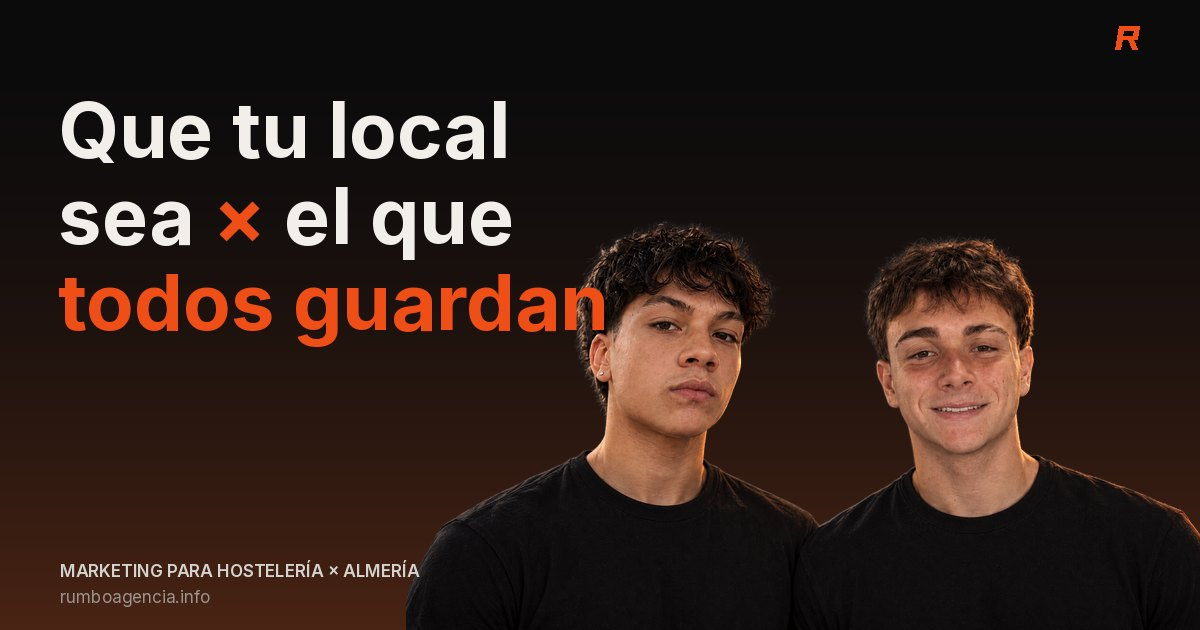
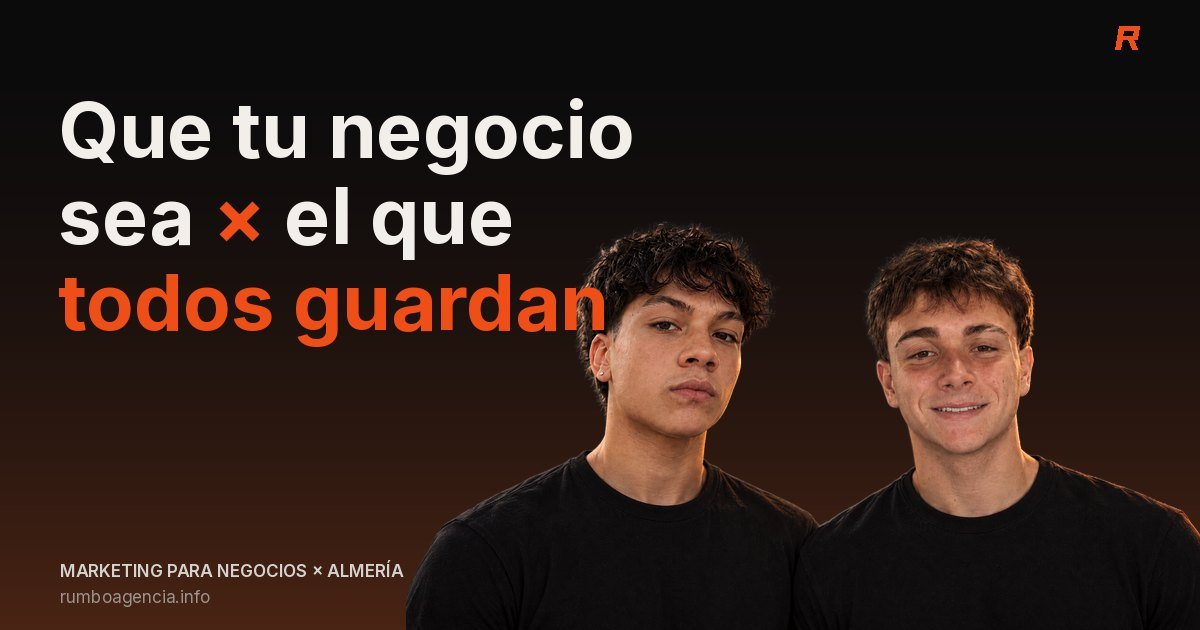
Rumbo trabaja con todo tipo de negocios, no solo hostelería
- Portada, «Qué hacemos», precios, contacto, pie y metadatos hablan de negocios en general
- Formulario: «Nombre del negocio» y ejemplo de mensaje genérico
- Exclusividad por sector y zona en lugar de por tipo de cocina
- Enlaces de Instagram y portafolio adaptados; los mensajes de WhatsApp dicen «mi negocio»
- Se mantienen tal cual los datos reales del caso de A Lo Cubano
- Imagen para compartir actualizada

Claude-Session: https://claude.ai/code/session_019xFNQLcs2HgyMfZCJFFBzc

Changed region(s): [[0.2775, 0.1508, 0.5242, 0.2714], [0.185, 0.8746, 0.3392, 0.9349]]

diff --git a/public/portafolio/index.html b/public/portafolio/index.html
@@ -4,7 +4,7 @@
 <meta charset="utf-8">
 <meta name="viewport" content="width=device-width, initial-scale=1, viewport-fit=cover">
 <title>Rumbo · Portafolio</title>
-<meta name="description" content="Portafolio de Rumbo: marketing para hostelería en Almería: kebabs, restaurantes, bares y cafeterías. Resultados, casos y equipo.">
+<meta name="description" content="Portafolio de Rumbo: marketing para todo tipo de negocios en Almería. Resultados, casos y equipo.">
 <meta name="theme-color" content="#101012">
 <link rel="canonical" href="https://rumboagencia.info/portafolio/">
 <meta property="og:type" content="website">
@@ -12,7 +12,7 @@
 <meta property="og:site_name" content="Rumbo">
 <meta property="og:url" content="https://rumboagencia.info/portafolio/">
 <meta property="og:title" content="Rumbo · Portafolio">
-<meta property="og:description" content="Portafolio de Rumbo: marketing para hostelería en Almería: kebabs, restaurantes, bares y cafeterías. Resultados, casos y equipo.">
+<meta property="og:description" content="Portafolio de Rumbo: marketing para todo tipo de negocios en Almería. Resultados, casos y equipo.">
 <meta property="og:image" content="https://rumboagencia.info/portafolio/assets/esteban.jpg">
 <meta property="og:image:width" content="900">
 <meta property="og:image:height" content="900">
@@ -72,12 +72,12 @@
     <div aria-hidden="true" style="position:absolute;pointer-events:none;width:140vw;height:140vw;max-width:900px;max-height:900px;right:-40%;top:-20%;border-radius:50%;background:radial-gradient(circle,rgba(240,78,23,.4) 0%,rgba(240,78,23,.1) 42%,transparent 70%);filter:blur(24px);animation:pf-drift 22s ease-in-out infinite"></div>
     <div style="position:relative;z-index:2;max-width:720px;margin:0 auto;padding:26px 20px 40px">
       <div data-rise style="display:flex;flex-wrap:wrap;gap:8px">
-        <span style="border:1px solid rgba(240,78,23,.55);background:rgba(240,78,23,.1);border-radius:999px;padding:6px 13px;font-size:12px;font-weight:600;letter-spacing:.08em;text-transform:uppercase;color:#FF8A3D">Hostelería</span>
-        <span style="border:1px solid rgba(240,78,23,.55);background:rgba(240,78,23,.1);border-radius:999px;padding:6px 13px;font-size:12px;font-weight:600;letter-spacing:.08em;text-transform:uppercase;color:#FF8A3D">Restauración</span>
+        <span style="border:1px solid rgba(240,78,23,.55);background:rgba(240,78,23,.1);border-radius:999px;padding:6px 13px;font-size:12px;font-weight:600;letter-spacing:.08em;text-transform:uppercase;color:#FF8A3D">Todo tipo de negocios</span>
+        <span style="border:1px solid rgba(240,78,23,.55);background:rgba(240,78,23,.1);border-radius:999px;padding:6px 13px;font-size:12px;font-weight:600;letter-spacing:.08em;text-transform:uppercase;color:#FF8A3D">Vídeo · Redes · Google</span>
         <span style="border:1px solid rgba(242,239,234,.16);border-radius:999px;padding:6px 13px;font-size:12px;font-weight:600;letter-spacing:.08em;text-transform:uppercase;color:#C8BBAE">Almería</span>
       </div>
 
-      <h1 data-rise style="animation-delay:.08s;margin-top:22px;font-size:clamp(40px,11.5vw,84px);letter-spacing:-.055em;line-height:.92;text-wrap:balance">Que tu local sea <span style="color:#F04E17">el que todos guardan.</span></h1>
+      <h1 data-rise style="animation-delay:.08s;margin-top:22px;font-size:clamp(40px,11.5vw,84px);letter-spacing:-.055em;line-height:.92;text-wrap:balance">Que tu negocio sea <span style="color:#F04E17">el que todos guardan.</span></h1>
 
       <div data-rise style="animation-delay:.18s;margin-top:28px;display:grid;grid-template-columns:repeat(2,minmax(0,1fr));gap:10px">
         <figure style="position:relative;aspect-ratio:3/4;border-radius:16px;overflow:hidden;background:#17171A;isolation:isolate">
@@ -102,8 +102,8 @@
         </figure>
       </div>
 
-      <p data-rise style="animation-delay:.28s;margin-top:26px;font-size:clamp(18px,5vw,22px);line-height:1.4;letter-spacing:-.01em;text-wrap:pretty">Somos Esteban y Eneko, <b style="font-weight:600">Rumbo</b>. Hacemos que tu kebab, tu restaurante o tu bar sea el sitio del que todo el mundo habla y al que todo el mundo quiere ir.</p>
-      <p data-rise style="animation-delay:.34s;margin-top:12px;color:#C8BBAE;text-wrap:pretty">Dos personas, sin intermediarios: quien graba tu local es quien lo publica.</p>
+      <p data-rise style="animation-delay:.28s;margin-top:26px;font-size:clamp(18px,5vw,22px);line-height:1.4;letter-spacing:-.01em;text-wrap:pretty">Somos Esteban y Eneko, <b style="font-weight:600">Rumbo</b>. Hacemos que tu negocio, ya sea un restaurante, una tienda, una clínica o un gimnasio, se convierta en el sitio del que todo el mundo habla y al que todo el mundo quiere ir.</p>
+      <p data-rise style="animation-delay:.34s;margin-top:12px;color:#C8BBAE;text-wrap:pretty">Dos personas, sin intermediarios: quien graba tu negocio es quien lo publica.</p>
 
       <div data-rise style="animation-delay:.4s;margin-top:28px;display:grid;grid-template-columns:repeat(3,minmax(0,1fr));gap:1px;background:rgba(242,239,234,.14);border-radius:14px;overflow:hidden">
         <div style="background:rgba(23,23,26,.9);padding:14px 12px">
@@ -134,7 +134,7 @@
         <div style="position:absolute;inset:0;opacity:.3;background-image:radial-gradient(rgba(242,239,234,.5) 1px,transparent 1.2px);background-size:22px 22px;-webkit-mask-image:linear-gradient(to bottom,#000,transparent 45%);mask-image:linear-gradient(to bottom,#000,transparent 45%)"></div>
       </div>
 
-      <span style="display:inline-flex;align-items:center;gap:9px;border:1px solid rgba(240,78,23,.5);background:rgba(240,78,23,.12);border-radius:999px;padding:6px 13px;font-size:11px;font-weight:600;letter-spacing:.14em;text-transform:uppercase;color:#FF8A3D"><span data-anim style="width:7px;height:7px;border-radius:50%;background:#F04E17;animation:pf-pulse 1.6s ease-out infinite"></span>Para hostelería</span>
+      <span style="display:inline-flex;align-items:center;gap:9px;border:1px solid rgba(240,78,23,.5);background:rgba(240,78,23,.12);border-radius:999px;padding:6px 13px;font-size:11px;font-weight:600;letter-spacing:.14em;text-transform:uppercase;color:#FF8A3D"><span data-anim style="width:7px;height:7px;border-radius:50%;background:#F04E17;animation:pf-pulse 1.6s ease-out infinite"></span>Un ejemplo: hostelería</span>
       <div style="margin-top:14px;display:flex;flex-wrap:wrap;gap:6px">
         <span style="border:1px solid rgba(242,239,234,.16);background:rgba(16,16,18,.6);border-radius:999px;padding:6px 12px;font-size:12px;font-weight:600;color:#F2EFEA">Kebabs</span><span style="border:1px solid rgba(242,239,234,.16);background:rgba(16,16,18,.6);border-radius:999px;padding:6px 12px;font-size:12px;font-weight:600;color:#F2EFEA">Restaurantes</span><span style="border:1px solid rgba(242,239,234,.16);background:rgba(16,16,18,.6);border-radius:999px;padding:6px 12px;font-size:12px;font-weight:600;color:#F2EFEA">Bares</span><span style="border:1px solid rgba(242,239,234,.16);background:rgba(16,16,18,.6);border-radius:999px;padding:6px 12px;font-size:12px;font-weight:600;color:#F2EFEA">Cafeterías</span><span style="border:1px solid rgba(242,239,234,.16);background:rgba(16,16,18,.6);border-radius:999px;padding:6px 12px;font-size:12px;font-weight:600;color:#F2EFEA">Hamburgueserías</span>
       </div>
@@ -282,7 +282,7 @@
       <div data-rev style="margin-top:28px;display:grid;gap:1px;background:rgba(242,239,234,.12);border-radius:16px;overflow:hidden">
         <div style="background:#17171A;padding:20px;display:grid;grid-template-columns:40px minmax(0,1fr);gap:14px">
           <div style="font-size:14px;font-weight:500;color:#F04E17;border-top:2px solid #F04E17;padding-top:6px">01</div>
-          <div><h4 style="font-size:18px;font-weight:600">Estrategia</h4><p style="margin-top:5px;font-size:15px;color:#C8BBAE;line-height:1.45;text-wrap:pretty">Auditoría del local y la competencia, líneas creativas y calendario antes de grabar nada.</p></div>
+          <div><h4 style="font-size:18px;font-weight:600">Estrategia</h4><p style="margin-top:5px;font-size:15px;color:#C8BBAE;line-height:1.45;text-wrap:pretty">Auditoría de tu negocio y la competencia, líneas creativas y calendario antes de grabar nada.</p></div>
         </div>
         <div style="background:#17171A;padding:20px;display:grid;grid-template-columns:40px minmax(0,1fr);gap:14px">
           <div style="font-size:14px;font-weight:500;color:#F04E17;border-top:2px solid #F04E17;padding-top:6px">02</div>
@@ -290,7 +290,7 @@
             <h4 style="font-size:18px;font-weight:600">Gestión de redes</h4>
             <p style="margin-top:5px;font-size:15px;color:#C8BBAE;line-height:1.45;text-wrap:pretty">Nos quedamos con tus cuentas y tú te olvidas de ellas. Instagram y TikTok, de principio a fin:</p>
             <ul style="list-style:none;padding:0;margin-top:14px;display:grid;gap:12px">
-              <li style="display:grid;grid-template-columns:16px minmax(0,1fr);gap:10px;font-size:15px;line-height:1.45"><span style="color:#F04E17">→</span><span><b style="font-weight:600">Un día de grabación al mes</b> <span style="color:#C8BBAE">en tu local, en horario tranquilo. Salimos con el mes entero rodado.</span></span></li>
+              <li style="display:grid;grid-template-columns:16px minmax(0,1fr);gap:10px;font-size:15px;line-height:1.45"><span style="color:#F04E17">→</span><span><b style="font-weight:600">Un día de grabación al mes</b> <span style="color:#C8BBAE">en tu negocio, en el momento más tranquilo. Salimos con el mes entero rodado.</span></span></li>
               <li style="display:grid;grid-template-columns:16px minmax(0,1fr);gap:10px;font-size:15px;line-height:1.45"><span style="color:#F04E17">→</span><span><b style="font-weight:600">Reels, posts y stories</b> <span style="color:#C8BBAE">editados con gancho en los tres primeros segundos, subtítulos y ritmo pensado para móvil.</span></span></li>
               <li style="display:grid;grid-template-columns:16px minmax(0,1fr);gap:10px;font-size:15px;line-height:1.45"><span style="color:#F04E17">→</span><span><b style="font-weight:600">Calendario y copys</b> <span style="color:#C8BBAE">escritos por nosotros. Apruebas el mes de una vez, no pieza por pieza.</span></span></li>
               <li style="display:grid;grid-template-columns:16px minmax(0,1fr);gap:10px;font-size:15px;line-height:1.45"><span style="color:#F04E17">→</span><span><b style="font-weight:600">Publicación constante</b> <span style="color:#C8BBAE">en las mejores horas, sin huecos: la cuenta nunca se queda en blanco.</span></span></li>
@@ -312,8 +312,8 @@
         <img src="/portafolio/assets/esteban.jpg" alt="" aria-hidden="true" style="width:56px;height:56px;border-radius:50%;object-fit:cover;object-position:50% 10%;border:2px solid #17171A">
         <img src="/portafolio/assets/eneko.jpg" alt="" aria-hidden="true" style="width:56px;height:56px;border-radius:50%;object-fit:cover;object-position:50% 14%;border:2px solid #17171A;margin-left:-14px">
       </div>
-      <h2 style="margin-top:20px;font-size:clamp(30px,8.4vw,48px);letter-spacing:-.045em;line-height:.98;text-wrap:balance">¿Tu local es <span style="color:#F04E17">el siguiente?</span></h2>
-      <p style="margin-top:14px;color:#C8BBAE;text-wrap:pretty">Treinta minutos y te contamos qué haríamos con él. Trabajamos con un local por zona.</p>
+      <h2 style="margin-top:20px;font-size:clamp(30px,8.4vw,48px);letter-spacing:-.045em;line-height:.98;text-wrap:balance">¿Tu negocio es <span style="color:#F04E17">el siguiente?</span></h2>
+      <p style="margin-top:14px;color:#C8BBAE;text-wrap:pretty">Treinta minutos y te contamos qué haríamos con él. Trabajamos con un negocio por sector y zona.</p>
       <div style="margin-top:24px;display:grid;gap:10px">
         <a href="mailto:lakylabmarketing@gmail.com" style="display:flex;align-items:center;justify-content:space-between;gap:12px;min-height:56px;padding:0 22px;border-radius:999px;border:1px solid #F04E17;background:linear-gradient(180deg,rgba(240,78,23,.24),rgba(240,78,23,.08));font-weight:600;color:#F2EFEA" class="h3"><span>Escríbenos</span><span style="font-size:13px;font-weight:500;color:#C8BBAE">lakylabmarketing@gmail.com</span></a>
         <a href="https://rumboagencia.info/#consulta" target="_blank" rel="noopener" style="display:flex;align-items:center;justify-content:space-between;min-height:56px;padding:0 22px;border-radius:999px;border:1px solid rgba(242,239,234,.18);font-weight:600;color:#F2EFEA" class="h2"><span>Reservar consulta</span><span style="color:#FF8A3D">↗</span></a>

diff --git a/lib/content.ts b/lib/content.ts
@@ -4,8 +4,8 @@
 export const CONTACT_EMAIL = 'lakylabmarketing@gmail.com'; // provisional
 
 export const services = [
-  { k: '01', title: 'Estrategia', text: 'Auditoría del local y de la competencia, líneas creativas y calendario del primer trimestre, antes de grabar nada.' },
-  { k: '02', title: 'Contenido', text: 'Grabación en tu local, piezas de vídeo de tres duraciones, diseño gráfico y stories. Publicamos nosotros, con los copys escritos.' },
+  { k: '01', title: 'Estrategia', text: 'Auditoría de tu negocio y de la competencia, líneas creativas y calendario del primer trimestre, antes de grabar nada.' },
+  { k: '02', title: 'Contenido', text: 'Grabación en tu negocio, piezas de vídeo de tres duraciones, diseño gráfico y stories. Publicamos nosotros, con los copys escritos.' },
   { k: '03', title: 'Clientes', note: 'Crecimiento y Marca', text: 'Ficha de Google optimizada, sistema de captación de reseñas, respuesta a mensajes y automatizaciones de WhatsApp o DM.' },
 ];
 
@@ -55,7 +55,7 @@ export const topVideos = [
 ];
 
 export const process = [
-  { k: 'Grabación', title: 'En tu local, en horario de bajo servicio', text: 'Según el plan: media jornada al mes (Esencial), una jornada completa (Crecimiento) o dos medias jornadas (Marca).' },
+  { k: 'Grabación', title: 'En tu negocio, en el momento más tranquilo', text: 'Según el plan: media jornada al mes (Esencial), una jornada completa (Crecimiento) o dos medias jornadas (Marca).' },
   { k: 'Lunes', title: 'Qué se entrega', text: 'Los dos socios repasan la semana: qué sale, qué está trabado y qué necesitamos de ti.' },
   { k: 'Martes a jueves', title: 'Edición', text: 'Esteban monta las piezas; Eneko lleva la comunicación contigo.' },
   { k: 'Viernes', title: 'Programar y medir', text: 'Se programa la semana siguiente y se revisan las métricas. Apruebas el mes de una vez, no pieza por pieza.' },
@@ -65,12 +65,12 @@ export const commitments = [
   { title: 'Entrega', text: 'Si al cierre del mes falta algo de lo que pone el contrato, se devuelve el mes completo, sin que tengas que pedirlo.' },
   { title: 'Propiedad', text: 'Tus cuentas, tu web y todo el material grabado son tuyos. Si te vas, te llevas los archivos originales.' },
   { title: 'Respuesta', note: 'Crecimiento y Marca', text: 'Mensajes y comentarios contestados en menos de 24 horas laborables.' },
-  { title: 'Exclusividad', note: 'Crecimiento y Marca', text: 'Un solo negocio de tu tipo de cocina por zona.' },
+  { title: 'Exclusividad', note: 'Crecimiento y Marca', text: 'Un solo negocio de tu mismo sector por zona.' },
 ];
 
 export const team = [
   { name: 'Esteban', role: 'Grabación y producción', img: '/portafolio/assets/esteban.jpg', w: 900, h: 900,
-    text: 'Graba en tu local, edita las piezas, diseña y lleva el calendario de publicación.',
+    text: 'Graba en tu negocio, edita las piezas, diseña y lleva el calendario de publicación.',
     tasks: 'Grabación · Edición · Publicación · Calendario · Diseño gráfico · Branding' },
   { name: 'Eneko', role: 'Clientes, sistemas y web', img: '/portafolio/assets/eneko.jpg', w: 675, h: 900,
     text: 'Es tu interlocutor: lleva las reuniones y los informes. En los planes que lo incluyen, también los mensajes, la web y las automatizaciones.',
@@ -80,7 +80,7 @@ export const team = [
 export const plans = [
   { id: 'esencial', name: 'Esencial', price: '550', claim: 'Para empezar a estar presente cada semana.', inc: 'Incluye', value: 'Esencial · 550 €/mes',
     items: ['10 piezas de vídeo (2 largas, 4 medias, 4 cortas)', '3 diseños gráficos + 12 stories', '1 media jornada de grabación', 'Calendario, publicación y copys', 'Informe mensual de métricas'] },
-  { id: 'crecimiento', name: 'Crecimiento', price: '950', rec: true, claim: 'Para llenar entre semana, no solo el sábado.', inc: 'Todo lo de Esencial, y además', value: 'Crecimiento · 950 €/mes',
+  { id: 'crecimiento', name: 'Crecimiento', price: '950', rec: true, claim: 'Para tener clientes todas las semanas, no solo en temporada alta.', inc: 'Todo lo de Esencial, y además', value: 'Crecimiento · 950 €/mes',
     items: ['16 piezas de vídeo (4 largas, 6 medias, 6 cortas)', '6 diseños gráficos + 20 stories', '1 jornada completa de grabación', 'Gestión de mensajes y comentarios', 'Ficha de Google optimizada', 'Sistema de captación de reseñas', '1 automatización (WhatsApp o DM)', 'Gestión de publicidad', 'Informe de negocio + llamada mensual', 'Exclusividad en tu zona'] },
   { id: 'marca', name: 'Marca', price: '1.600', claim: 'Para construir una marca, no solo publicar.', inc: 'Todo lo de Crecimiento, y además', value: 'Marca · 1.600 €/mes',
     items: ['24 piezas de vídeo (4 largas, 8 medias, 12 cortas)', '10 diseños gráficos + stories sin límite', '2 medias jornadas de grabación', '3 automatizaciones', 'Web o landing incluida', 'Campañas con creatividades propias', 'Reunión estratégica presencial'] },
@@ -95,11 +95,11 @@ export const conditions = [
 ];
 
 export const faqs = [
-  { q: '¿Tengo que salir yo en los vídeos?', a: 'No. Funciona mejor si sales tú o alguien de tu equipo, pero se puede grabar todo centrado en cocina, producto y sala. Lo decides antes de la primera grabación.' },
-  { q: '¿Cuándo empiezo a notar algo?', a: 'El primer mes se nota en la presencia: publicas de forma constante. El movimiento en reservas y consultas suele aparecer entre el segundo y el tercer mes; por eso la permanencia mínima es de tres meses.' },
+  { q: '¿Tengo que salir yo en los vídeos?', a: 'No. Funciona mejor si sales tú o alguien de tu equipo, pero se puede grabar todo centrado en tu producto, tu servicio y tu espacio. Lo decides antes de la primera grabación.' },
+  { q: '¿Cuándo empiezo a notar algo?', a: 'El primer mes se nota en la presencia: publicas de forma constante. El movimiento en clientes, reservas y consultas suele aparecer entre el segundo y el tercer mes; por eso la permanencia mínima es de tres meses.' },
   { q: '¿Qué pasa si no me gusta una pieza?', a: 'Cada pieza lleva una ronda de revisión incluida. Si al cierre del mes falta algo de lo que pone el contrato, se devuelve el mes completo.' },
-  { q: '¿Y si no puedo grabar el día que venís?', a: 'Las grabaciones se acuerdan con antelación y se reprograman avisando con 48 horas. Grabamos en horario de bajo servicio.' },
+  { q: '¿Y si no puedo grabar el día que venís?', a: 'Las grabaciones se acuerdan con antelación y se reprograman avisando con 48 horas. Grabamos en el momento más tranquilo de tu negocio.' },
   { q: '¿La publicidad está incluida en el precio?', a: 'La gestión sí, en Crecimiento y Marca. La inversión en Meta o Google va aparte y la decides tú.' },
-  { q: '¿Trabajáis con mi competencia?', a: 'En Crecimiento y Marca hay exclusividad: un solo negocio de tu tipo de cocina en tu zona. Si tu zona ya está ocupada, te lo decimos en la primera llamada.' },
+  { q: '¿Trabajáis con mi competencia?', a: 'En Crecimiento y Marca hay exclusividad: un solo negocio de tu mismo sector en tu zona. Si tu zona ya está ocupada, te lo decimos en la primera llamada.' },
   { q: 'Si me voy, ¿qué me llevo?', a: 'Las cuentas, la web y el material original grabado son tuyos desde el primer día. Te entregamos los archivos y los accesos.' },
 ];

diff --git a/app/page.tsx b/app/page.tsx
@@ -45,9 +45,9 @@ export default function Page() {
         <Hero />
         {/* QUÉ HACEMOS (sección clara) */}
         <section id="servicios" data-fx className="relative bg-niebla text-ink" aria-label="Qué hacemos">
-          <div className="pt-20 md:pt-28"><SlantBand items={['Vídeo', 'Redes', 'Ficha de Google', 'Reseñas', 'Hostelería', 'Almería']} /></div>
+          <div className="pt-20 md:pt-28"><SlantBand items={['Vídeo', 'Redes', 'Ficha de Google', 'Reseñas', 'Tu negocio', 'Almería']} /></div>
           <div className="mx-auto max-w-wrap px-5 pb-28 pt-20 sm:px-8 md:pb-40 md:pt-28">
-            <SectionHead light index="01 · Qué hacemos" title="Qué" kw="hacemos" lead="Rumbo es una agencia de Almería que trabaja solo con hostelería: restaurantes, hoteles, cafeterías y locales de ocio de la provincia." />
+            <SectionHead light index="01 · Qué hacemos" title="Qué" kw="hacemos" lead="Rumbo es una agencia de marketing de Almería para todo tipo de negocios: restaurantes, tiendas, clínicas, gimnasios, inmobiliarias, despachos… Si tienes clientes que ganar, trabajamos contigo." />
             <ul className="border-t border-black/15">
               {services.map((s) => (
                 <li key={s.k} data-rise className="grid gap-3 border-b border-black/15 py-8 md:grid-cols-[120px_minmax(0,.9fr)_minmax(0,1.2fr)] md:items-baseline md:py-10">
@@ -158,7 +158,7 @@ export default function Page() {
         {/* PRECIOS */}
         <section id="precios" data-fx className="border-t border-line" aria-label="Precios">
           <div className="mx-auto max-w-wrap px-5 py-28 sm:px-8 md:py-40">
-            <SectionHead index="04 · Precios" title="Elige el plan que" kw="te llena el local" lead="Tres planes con el mismo equipo. Cambian el volumen de contenido y el trabajo de captación." />
+            <SectionHead index="04 · Precios" title="Elige el plan que" kw="hace crecer tu negocio" lead="Tres planes con el mismo equipo. Cambian el volumen de contenido y el trabajo de captación." />
             <div className="grid gap-6 lg:grid-cols-3">
               {plans.map((p) => (
                 <article key={p.id} data-rise className={`relative flex flex-col p-7 md:p-9 ${p.rec ? 'bg-[#1a1210] outline outline-1 outline-naranja/70' : 'bg-surface'}`}>
@@ -217,7 +217,7 @@ export default function Page() {
           <div className="mx-auto grid max-w-wrap gap-14 px-5 py-28 sm:px-8 md:grid-cols-2 md:py-40">
             <div>
               <span className="tech text-muted"><span className="text-naranja">+</span> 06 · Contacto</span>
-              <h2 className="mega mt-5 text-[clamp(2.3rem,5.4vw,5.6rem)] leading-[.98]"><span className="ln"><span>Cuéntanos qué mesa</span></span><span className="ln deep"><span>hay que llenar</span></span></h2>
+              <h2 className="mega mt-5 text-[clamp(2.3rem,5.4vw,5.6rem)] leading-[.98]"><span className="ln"><span>Cuéntanos qué necesita</span></span><span className="ln deep"><span>tu negocio</span></span></h2>
               <p className="mt-6 max-w-[44ch] text-body text-gris">Treinta minutos, sin compromiso. Miramos tu perfil y tu ficha de Google antes de la llamada y te decimos qué haríamos primero.</p>
               <ul className="tech mt-8 grid gap-3 text-[11px] text-gris">
                 <li><span className="text-naranja">+</span> Respondemos en menos de 24 horas laborables</li>
@@ -237,7 +237,7 @@ export default function Page() {
         <div className="mx-auto mt-20 grid max-w-wrap gap-10 border-t border-line pt-10 text-[15px] text-gris md:grid-cols-3">
           <div>
             <Logo className="h-6 w-auto" />
-            <p className="mt-4 max-w-[30ch]">Agencia de marketing para hostelería. Almería y provincia.</p>
+            <p className="mt-4 max-w-[30ch]">Agencia de marketing para todo tipo de negocios. Almería y provincia.</p>
           </div>
           <nav aria-label="Secciones del pie" className="tech grid gap-2 text-[11px]">
             {[['#servicios', 'Qué hacemos'], ['#proyectos', 'Proyectos'], ['#proceso', 'Proceso'], ['#nosotros', 'Sobre nosotros'], ['#precios', 'Precios'], ['#faq', 'Preguntas'], ['#contacto', 'Contacto']].map(([h, l]) => (
@@ -247,13 +247,13 @@ export default function Page() {
           <div id="aviso-legal" className="text-[14px] leading-relaxed text-muted">
             <span id="privacidad" className="sr-only" />
             <h2 className="tech mb-3 text-gris">Aviso legal y privacidad</h2>
-            <p><b className="text-gris">Quién está detrás.</b> Esta web es de Rumbo, agencia de marketing para hostelería en Almería formada por Esteban y Eneko. Contacto: <a className="underline" href={`mailto:${CONTACT_EMAIL}`}>{CONTACT_EMAIL}</a>.</p>
+            <p><b className="text-gris">Quién está detrás.</b> Esta web es de Rumbo, agencia de marketing en Almería formada por Esteban y Eneko. Contacto: <a className="underline" href={`mailto:${CONTACT_EMAIL}`}>{CONTACT_EMAIL}</a>.</p>
             <p className="mt-2"><b className="text-gris">Datos.</b> Solo los que escribes en el formulario de consulta, para responderte; no los cedemos a nadie. El formulario se procesa en Netlify, el servicio que aloja esta web. Base legal: tu consentimiento. Puedes pedir acceder, corregir o borrar tus datos en el correo de arriba y reclamar ante la AEPD (aepd.es).</p>
             <p className="mt-2"><b className="text-gris">Cookies.</b> Esta web no usa cookies ni herramientas de seguimiento.</p>
           </div>
         </div>
         <div className="tech mx-auto mt-10 flex max-w-wrap flex-wrap justify-between gap-3 text-[10px] text-muted">
-          <span>© 2026 Rumbo · rumboagencia.info</span><span>Almería · Hostelería</span>
+          <span>© 2026 Rumbo · rumboagencia.info</span><span>Almería · Marketing para negocios</span>
         </div>
       </footer>
     </>

diff --git a/public/enlaces/index.html b/public/enlaces/index.html
@@ -14,10 +14,10 @@ var CONFIG = {
   WHATSAPP_NUMERO: '34624911599',
 
   // Mensaje ya escrito del botón principal.
-  WHATSAPP_MENSAJE: 'Hola, vengo de vuestro Instagram y quiero saber qué haríais con mi local.',
+  WHATSAPP_MENSAJE: 'Hola, vengo de vuestro Instagram y quiero saber qué haríais con mi negocio.',
 
   // Mensaje ya escrito del botón «Auditoría gratis de tu perfil».
-  WHATSAPP_MENSAJE_AUDITORIA: 'Hola, quiero la auditoría gratis de mi perfil. Mi local es: ',
+  WHATSAPP_MENSAJE_AUDITORIA: 'Hola, quiero la auditoría gratis de mi perfil. Mi negocio es: ',
 
   // Tu web (sin barra final).
   WEB: 'https://rumboagencia.info',
@@ -30,7 +30,7 @@ var CONFIG = {
 </script>
 <meta name="viewport" content="width=device-width, initial-scale=1, viewport-fit=cover">
 <title>Rumbo · Enlaces</title>
-<meta name="description" content="Marketing para hostelería · Almería y provincia. Escríbenos por WhatsApp.">
+<meta name="description" content="Marketing para todo tipo de negocios · Almería y provincia. Escríbenos por WhatsApp.">
 <meta name="theme-color" content="#101012">
 <meta name="robots" content="noindex">
 <link rel="canonical" href="https://rumboagencia.info/enlaces/">
@@ -38,8 +38,8 @@ var CONFIG = {
 <meta property="og:locale" content="es_ES">
 <meta property="og:site_name" content="Rumbo">
 <meta property="og:url" content="https://rumboagencia.info/enlaces/">
-<meta property="og:title" content="Rumbo · Marketing para hostelería">
-<meta property="og:description" content="Marketing para hostelería · Almería y provincia">
+<meta property="og:title" content="Rumbo · Marketing para negocios">
+<meta property="og:description" content="Marketing para todo tipo de negocios · Almería y provincia">
 <meta property="og:image" content="https://rumboagencia.info/img/og-rumbo.jpg">
 <meta property="og:image:width" content="1200">
 <meta property="og:image:height" content="630">
@@ -117,20 +117,20 @@ footer a:hover{color:var(--cal)}
   <header>
     <div class="iso"><svg viewBox="0 0 57.87 56" aria-hidden="true" focusable="false"><path fill="#101012" fill-rule="evenodd" d="M9.87 0 L57.87 0 L52.23 32 L42.83 32 L51.6 56 L39.6 56 L30.83 32 L16.73 32 L12.5 56 L0.0 56ZM20.26 12 L42.26 12 L40.5 22 L18.5 22Z"/></svg></div>
     <h1>Rumbo</h1>
-    <p class="tag">Marketing para hostelería · Almería y provincia</p>
+    <p class="tag">Marketing para todo tipo de negocios · Almería y provincia</p>
   </header>
 
   <main>
     <ul>
       <li>
-        <a class="b wa" data-link="whatsapp" href="https://wa.me/34624911599?text=Hola%2C%20vengo%20de%20vuestro%20Instagram%20y%20quiero%20saber%20qu%C3%A9%20har%C3%ADais%20con%20mi%20local.">
+        <a class="b wa" data-link="whatsapp" href="https://wa.me/34624911599?text=Hola%2C%20vengo%20de%20vuestro%20Instagram%20y%20quiero%20saber%20qu%C3%A9%20har%C3%ADais%20con%20mi%20negocio.">
           <svg class="ic" viewBox="0 0 24 24" aria-hidden="true" fill="currentColor"><path d="M12 2.2a9.7 9.7 0 0 0-8.4 14.6L2.2 21.8l5.1-1.3A9.7 9.7 0 1 0 12 2.2Zm0 17.7a8 8 0 0 1-4.1-1.1l-.3-.2-3 .8.8-2.9-.2-.3A8 8 0 1 1 12 19.9Zm4.4-6c-.2-.1-1.4-.7-1.7-.8-.2-.1-.4-.1-.5.1l-.8 1c-.1.2-.3.2-.5.1a6.5 6.5 0 0 1-3.2-2.8c-.2-.4.2-.4.7-1.3.1-.2 0-.3 0-.4l-.8-1.8c-.2-.5-.4-.4-.5-.4h-.5a.9.9 0 0 0-.6.3 2.7 2.7 0 0 0-.8 2c0 1.2.9 2.3 1 2.5.1.2 1.7 2.6 4.1 3.6 1.5.7 2.1.7 2.9.6.5-.1 1.4-.6 1.6-1.1.2-.6.2-1 .1-1.1l-.3-.4Z"/></svg>
           <span class="t"><strong>Escríbenos por WhatsApp</strong></span>
           <svg class="go" viewBox="0 0 24 24" fill="none" stroke="currentColor" stroke-width="2.2" aria-hidden="true"><path d="M5 12h13M13 6l6 6-6 6"/></svg>
         </a>
       </li>
       <li>
-        <a class="b" data-link="auditoria" href="https://wa.me/34624911599?text=Hola%2C%20quiero%20la%20auditor%C3%ADa%20gratis%20de%20mi%20perfil.%20Mi%20local%20es%3A%20">
+        <a class="b" data-link="auditoria" href="https://wa.me/34624911599?text=Hola%2C%20quiero%20la%20auditor%C3%ADa%20gratis%20de%20mi%20perfil.%20Mi%20negocio%20es%3A%20">
           <span class="t"><strong>Auditoría gratis de tu perfil</strong><small>Te mandamos un vídeo de 2 minutos con tres cosas que te están costando dinero</small></span>
           <svg class="go" viewBox="0 0 24 24" fill="none" stroke="currentColor" stroke-width="2.2" aria-hidden="true"><path d="M5 12h13M13 6l6 6-6 6"/></svg>
         </a>
@@ -149,7 +149,7 @@ footer a:hover{color:var(--cal)}
       </li>
       <li>
         <a class="b" data-link="portafolio" href="https://rumboagencia.info/portafolio/?utm_source=bio&amp;utm_medium=social&amp;utm_content=portafolio">
-          <span class="t"><strong>Ver portafolio</strong><small>Vídeos, cifras y testimonios de nuestro trabajo en hostelería</small></span>
+          <span class="t"><strong>Ver portafolio</strong><small>Vídeos, cifras y testimonios de nuestro trabajo</small></span>
           <svg class="go" viewBox="0 0 24 24" fill="none" stroke="currentColor" stroke-width="2.2" aria-hidden="true"><path d="M5 12h13M13 6l6 6-6 6"/></svg>
         </a>
       </li>

diff --git a/components/ContactForm.tsx b/components/ContactForm.tsx
@@ -28,7 +28,7 @@ export default function ContactForm() {
     const v = (k: string) => String(fd.get(k) || '').trim();
     const missing: string[] = [];
     if (v('nombre').length < 2) missing.push('tu nombre');
-    if (v('local').length < 2) missing.push('el nombre del local');
+    if (v('local').length < 2) missing.push('el nombre del negocio');
     if (!/^[^\s@]+@[^\s@]+\.[^\s@]{2,}$/.test(v('email'))) missing.push('un correo válido');
     if (v('telefono').replace(/\D/g, '').length < 9) missing.push('un teléfono de 9 dígitos');
     if (!fd.get('rgpd')) missing.push('aceptar la política de privacidad');
@@ -40,7 +40,7 @@ export default function ContactForm() {
       if (!res.ok) throw new Error(String(res.status));
       e.currentTarget?.reset(); form.current?.reset(); setState('ok');
     } catch {
-      const body = ['Plan: ' + v('plan'), 'Nombre: ' + v('nombre'), 'Local: ' + v('local'), 'Email: ' + v('email'), 'Teléfono: ' + v('telefono'), 'Población: ' + v('poblacion'), '', v('mensaje')].join('\n');
+      const body = ['Plan: ' + v('plan'), 'Nombre: ' + v('nombre'), 'Negocio: ' + v('local'), 'Email: ' + v('email'), 'Teléfono: ' + v('telefono'), 'Población: ' + v('poblacion'), '', v('mensaje')].join('\n');
       location.href = `mailto:${CONTACT_EMAIL}?subject=${encodeURIComponent(`Nueva consulta: ${v('local')} (${v('plan')})`)}&body=${encodeURIComponent(body)}`;
       setError('El envío automático no ha respondido, así que hemos abierto tu programa de correo con la consulta ya escrita: solo tienes que darle a enviar.');
       setState('error');
@@ -63,12 +63,12 @@ export default function ContactForm() {
       </fieldset>
       <div className="grid gap-7 sm:grid-cols-2">
         <div><label htmlFor="nombre" className={label}>Tu nombre *</label><input id="nombre" name="nombre" required minLength={2} autoComplete="name" placeholder="Nombre y apellidos" className={field} /></div>
-        <div><label htmlFor="local" className={label}>Nombre del local *</label><input id="local" name="local" required minLength={2} autoComplete="organization" placeholder="Tu restaurante o negocio" className={field} /></div>
+        <div><label htmlFor="local" className={label}>Nombre del negocio *</label><input id="local" name="local" required minLength={2} autoComplete="organization" placeholder="Tu negocio o empresa" className={field} /></div>
         <div><label htmlFor="email" className={label}>Correo electrónico *</label><input id="email" name="email" type="email" required autoComplete="email" placeholder="tucorreo@ejemplo.com" className={field} /></div>
         <div><label htmlFor="telefono" className={label}>Teléfono *</label><input id="telefono" name="telefono" type="tel" required autoComplete="tel" placeholder="600 00 00 00" className={field} /></div>
       </div>
       <div><label htmlFor="poblacion" className={label}>Población</label><input id="poblacion" name="poblacion" autoComplete="address-level2" placeholder="Roquetas de Mar, Almería…" className={field} /></div>
-      <div><label htmlFor="mensaje" className={label}>¿Qué te gustaría cambiar?</label><textarea id="mensaje" name="mensaje" rows={3} placeholder="Entre semana el local se queda a medias, los sábados va lleno…" className={`${field} resize-y`} /></div>
+      <div><label htmlFor="mensaje" className={label}>¿Qué te gustaría cambiar?</label><textarea id="mensaje" name="mensaje" rows={3} placeholder="Me cuesta que me encuentren en Google y quiero más clientes entre semana…" className={`${field} resize-y`} /></div>
       <p className="hidden" aria-hidden><label>No rellenar <input name="_honey" tabIndex={-1} autoComplete="off" /></label></p>
       <div className="flex items-start gap-3">
         <input id="rgpd" name="rgpd" type="checkbox" value="acepta" required className="mt-1 h-5 w-5 accent-naranja" />

diff --git a/components/Hero.tsx b/components/Hero.tsx
@@ -68,10 +68,10 @@ export default function Hero() {
       className="relative overflow-hidden bg-[linear-gradient(180deg,#0B0B0B_0%,#121214_40%,#2a1912_78%,#4a2414_100%)] pb-10 pt-[calc(96px+env(safe-area-inset-top))] md:flex md:min-h-[100svh] md:flex-col md:pb-0 md:pt-[88px]">
       {/* resplandor naranja de marca detrás del móvil */}
       <div aria-hidden className="pointer-events-none absolute inset-x-0 bottom-0 h-[70%] bg-[radial-gradient(45%_60%_at_50%_100%,rgba(240,78,23,.55),rgba(255,138,61,.12)_55%,transparent_75%)]" />
-      <p data-hero="cap" className="tech relative z-10 px-4 text-[11px] text-gris/80 md:hidden">Marketing para hostelería <span className="text-naranja">×</span> Almería</p>
+      <p data-hero="cap" className="tech relative z-10 px-4 text-[11px] text-gris/80 md:hidden">Marketing para negocios <span className="text-naranja">×</span> Almería</p>
 
       <h1 id="t-hero" className="mega relative z-0 mt-3 px-4 text-center text-mega md:mt-0 md:px-[30px]">
-        <span className="ln"><span>Que tu local</span></span>
+        <span className="ln"><span>Que tu negocio</span></span>
         <span className="ln"><span>sea <span aria-hidden className="font-light text-naranja [-webkit-text-fill-color:#F04E17]">×</span> el que</span></span>
         <span className="ln deep"><span>todos guardan</span></span>
       </h1>
@@ -96,7 +96,7 @@ export default function Hero() {
 
       {/* Esquina inferior izquierda: quiénes y dónde */}
       <div data-hero="cap" className="tech relative z-10 mt-10 grid gap-1 px-4 text-[11px] leading-snug text-gris md:absolute md:bottom-8 md:left-[30px] md:mt-0 md:w-[calc((100%-60px)/6*2)] md:px-3">
-        <span className="hidden md:block">Marketing para hostelería <span className="text-naranja">×</span> Almería</span>
+        <span className="hidden md:block">Marketing para negocios <span className="text-naranja">×</span> Almería</span>
         <span>Rumbo · Almería &nbsp; <Clock /></span>
         <span className="text-muted">Esteban y Eneko: hablas con quien hace el trabajo</span>
       </div>
@@ -105,7 +105,7 @@ export default function Hero() {
       <div data-hero="cap" className="relative z-10 mt-8 grid gap-6 px-4 md:absolute md:bottom-8 md:left-[calc(30px+(100%-60px)/6*4)] md:mt-0 md:w-[calc((100%-60px)/6*2)] md:px-3">
         <p className="text-[clamp(1.25rem,1.9vw,1.75rem)] font-semibold leading-[1.12] tracking-[-.02em] text-cal/90">
           Vídeo, redes y ficha de Google para que te descubran y te elijan.
-          <span className="text-gris/70"> En treinta minutos te contamos qué haríamos con tu local.</span>
+          <span className="text-gris/70"> En treinta minutos te contamos qué haríamos con tu negocio.</span>
         </p>
         <div className="flex flex-wrap items-center gap-5">
           <CtaCross href="#contacto">Reservar consulta</CtaCross>

diff --git a/app/layout.tsx b/app/layout.tsx
@@ -10,15 +10,15 @@ const SITE = process.env.URL || 'https://rumboagencia.info';
 
 export const metadata: Metadata = {
   metadataBase: new URL(SITE),
-  title: 'Rumbo · Marketing para hostelería en Almería',
-  description: 'Agencia de marketing para restaurantes en Almería. Contenido en vídeo, gestión de redes, ficha de Google y captación de reseñas.',
+  title: 'Rumbo · Agencia de marketing en Almería',
+  description: 'Agencia de marketing para todo tipo de negocios en Almería. Contenido en vídeo, gestión de redes, ficha de Google y captación de reseñas.',
   alternates: { canonical: '/' },
   icons: { icon: '/img/favicon-32.png', apple: '/img/apple-touch-icon.png' },
   openGraph: {
     type: 'website', locale: 'es_ES', siteName: 'Rumbo', url: SITE + '/',
-    title: 'Rumbo · Marketing para hostelería en Almería',
-    description: 'Marketing para restaurantes, hoteles y cafeterías de Almería y provincia.',
-    images: [{ url: '/img/og-rumbo.jpg', width: 1200, height: 630, alt: 'Rumbo, marketing para hostelería en Almería' }],
+    title: 'Rumbo · Agencia de marketing en Almería',
+    description: 'Marketing para todo tipo de negocios de Almería y provincia: vídeo, redes, Google y reseñas.',
+    images: [{ url: '/img/og-rumbo.jpg', width: 1200, height: 630, alt: 'Rumbo, agencia de marketing en Almería' }],
   },
   twitter: { card: 'summary_large_image' },
 };

diff --git a/components/Intro.tsx b/components/Intro.tsx
@@ -6,8 +6,8 @@ const KEY = 'rumbo-intro-2026';
 
 const LINES = [
   'RUMBO.SYS v1.0 · ALMERÍA · 1996',
-  '> Detectando local ............ OK',
-  '> Cargando carta .............. OK',
+  '> Detectando negocio .......... OK',
+  '> Cargando catálogo ........... OK',
   '> Clientes nuevos ............. 0',
   '> Buscando actualización ...... RUMBO 2026',
   '> Installing update…',
@@ -18,7 +18,7 @@ const COUNTERS = [
   { label: 'AÑO', from: 1996, to: 2026, plain: true },
   { label: 'VISUALIZACIONES', from: 0, to: 172900 },
   { label: 'RESEÑAS', from: 12, to: 151 },
-  { label: 'RUTAS AL LOCAL', from: 0, to: 607 },
+  { label: 'RUTAS PEDIDAS', from: 0, to: 607 },
 ];
 
 const fmt = (n: number, plain?: boolean) => (plain ? String(Math.round(n)) : Math.round(n).toLocaleString('es-ES').replace(/\B(?=(\d{3})+(?!\d))/g, '.'));

diff --git a/components/FooterBig.tsx b/components/FooterBig.tsx
@@ -19,7 +19,7 @@ export default function FooterBig() {
       <p className="mega flex justify-between text-[25vw] leading-[.82] text-cal" aria-label="Rumbo">
         {'RUMBO'.split('').map((l, i) => <span key={i} data-letter aria-hidden className={i === 0 ? 'text-naranja' : ''}>{l}</span>)}
       </p>
-      <p data-final className="tech mt-6 text-center text-gris">Ya puedes apagar el móvil y abrir la cocina<span className="animate-pulse text-naranja">_</span></p>
+      <p data-final className="tech mt-6 text-center text-gris">Ya puedes apagar el móvil y subir la persiana<span className="animate-pulse text-naranja">_</span></p>
     </div>
   );
 }
